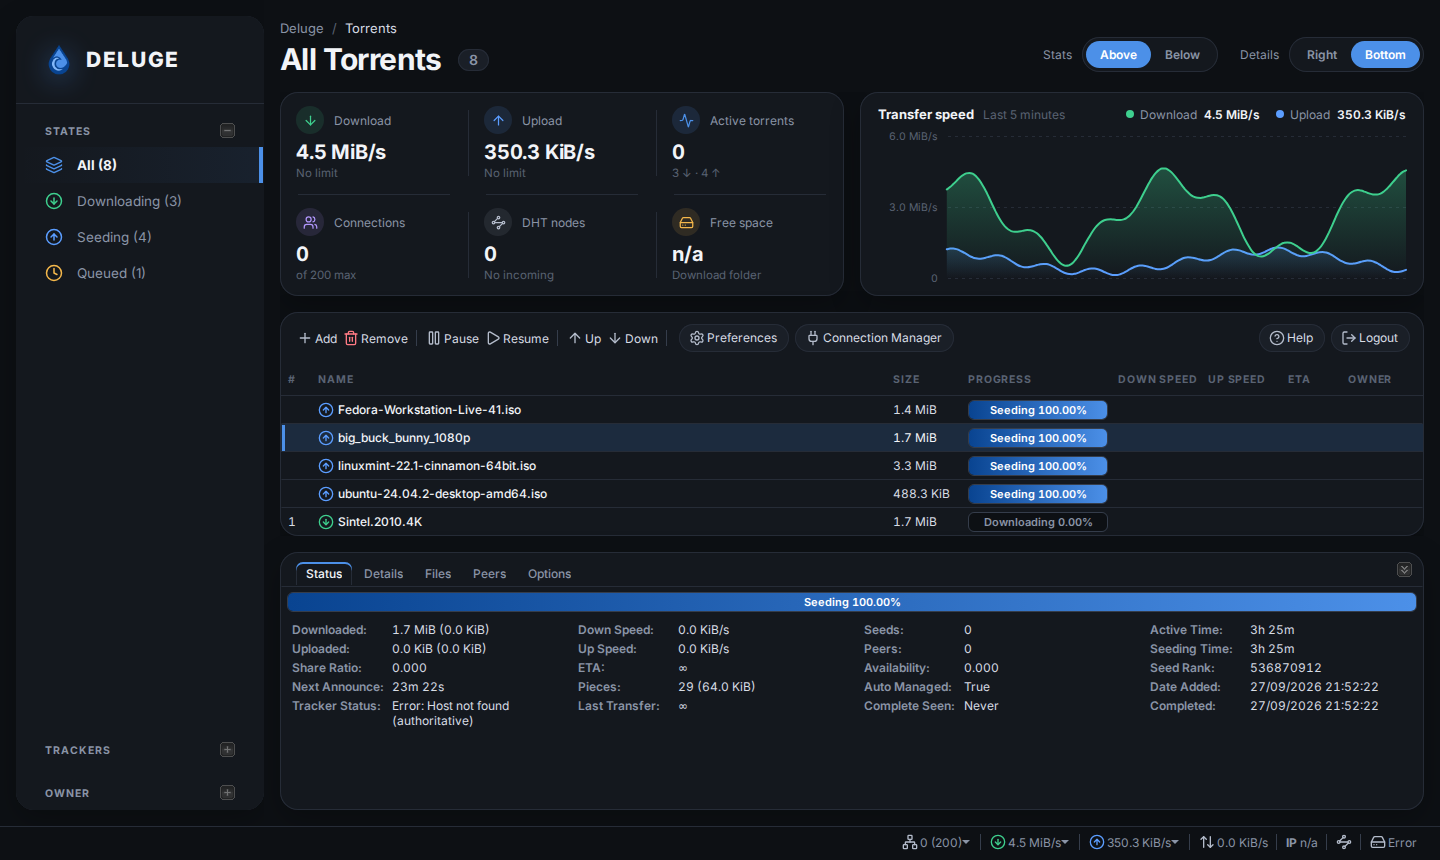
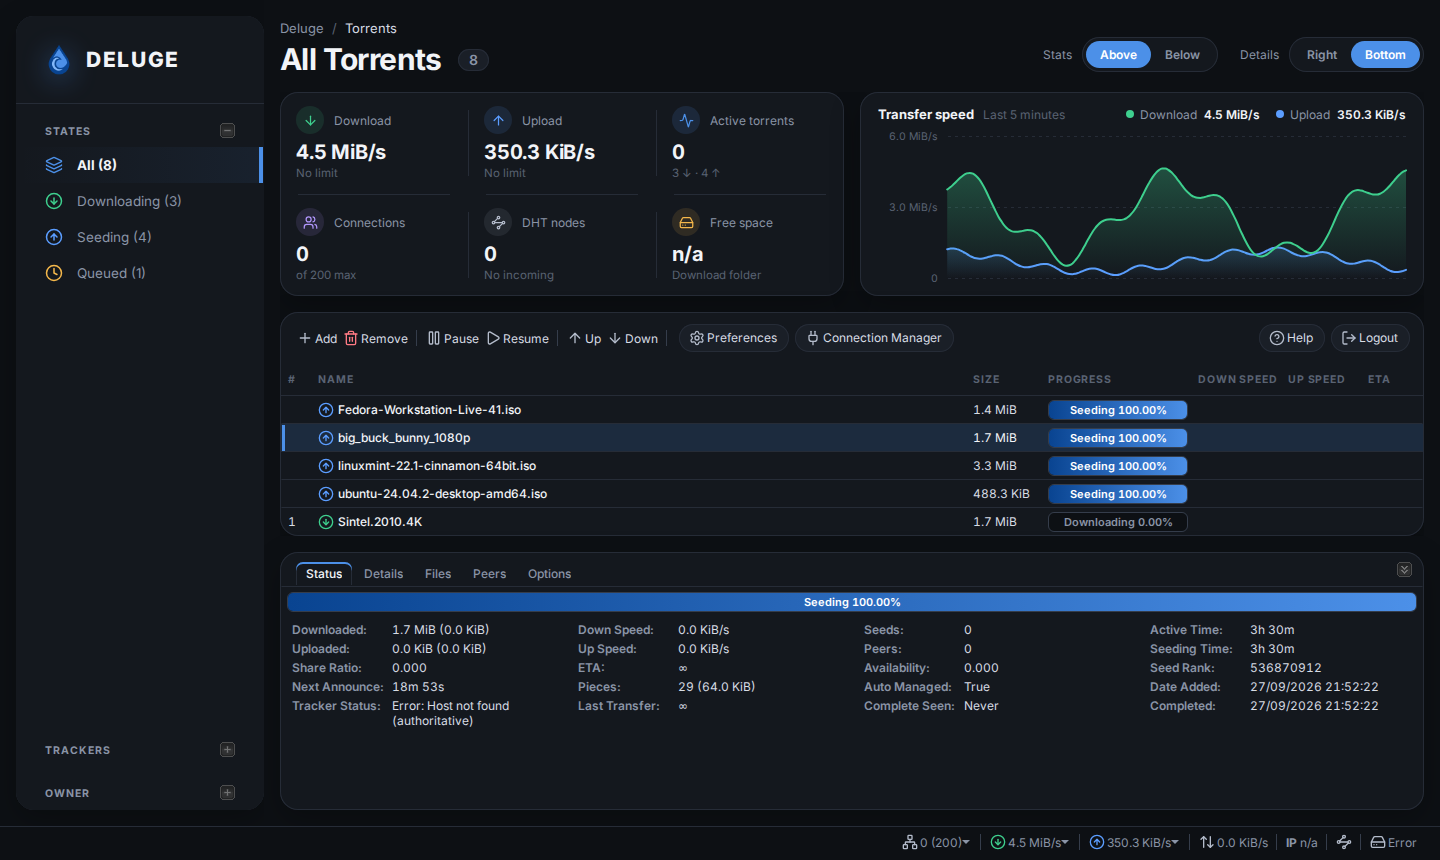
Dashboard: hide the Owner column by default
Hide it once per browser, the first time the dashboard runs, and save
the grid state straight away. After that, showing it from the column
menu sticks.

Changed region(s): [[0.625, 0.4233, 0.9688, 0.6349], [0.875, 0.7256, 0.9062, 0.7558]]

diff --git a/plugin/deluge_darkhand/data/darkhand.js b/plugin/deluge_darkhand/data/darkhand.js
@@ -1009,6 +1009,27 @@ Ext.ns('Deluge.plugins.darkhand');
         };
     }
 
+    // Hide the Owner column by default, to leave Name more room. Done once
+    // per browser; after that, showing it from the column menu sticks (Ext
+    // saves the grid's state when a column is shown or hidden).
+    var OWNER_KEY = 'darkhand.ownerHidden';
+
+    function hideOwnerOnce(grid) {
+        try {
+            if (window.localStorage.getItem(OWNER_KEY)) return;
+            window.localStorage.setItem(OWNER_KEY, '1');
+        } catch (e) {
+            return;
+        }
+        var cm = grid.getColumnModel();
+        var i = cm.findColumnIndex('owner');
+        if (i >= 0 && !cm.isHidden(i)) {
+            cm.setHidden(i, true);
+            // Ext saves it 100ms later; save now in case the page is left
+            grid.saveState();
+        }
+    }
+
     // Toolbar buttons shown as labelled pills, or round icon buttons when
     // the labels don't fit; keep their labels as tooltips.
     var ICON_BUTTONS = ['preferences', 'connectionman', 'help', 'logout'];
@@ -1027,6 +1048,7 @@ Ext.ns('Deluge.plugins.darkhand');
 
     function wireUp(mode, details, box) {
         setUpColumnStretch(deluge.torrents);
+        hideOwnerOnce(deluge.torrents);
         rememberDetailsSize(mode, details);
 
         var refit = function () {
